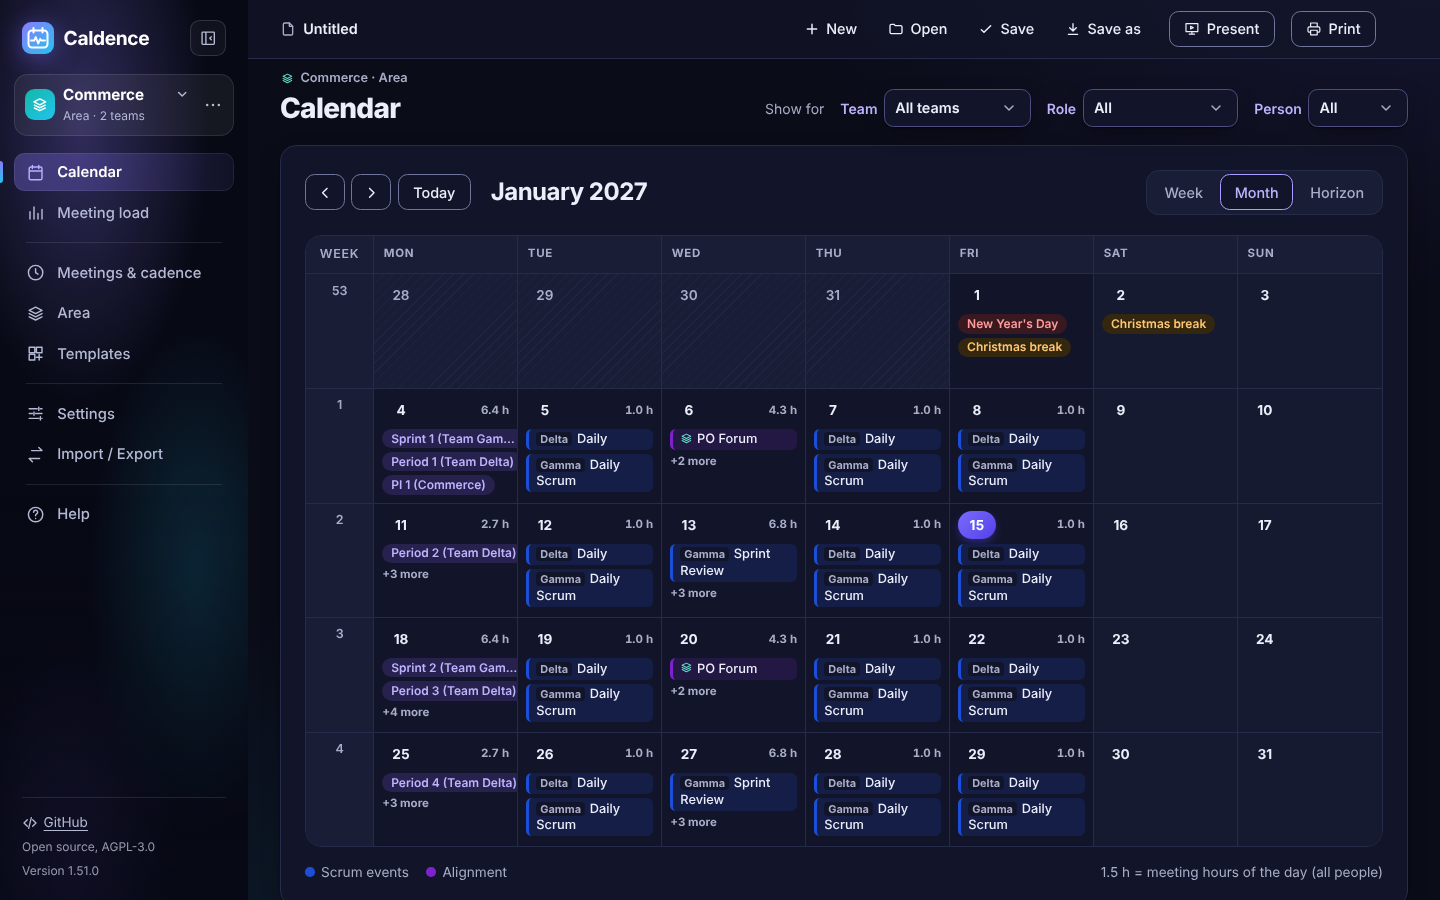
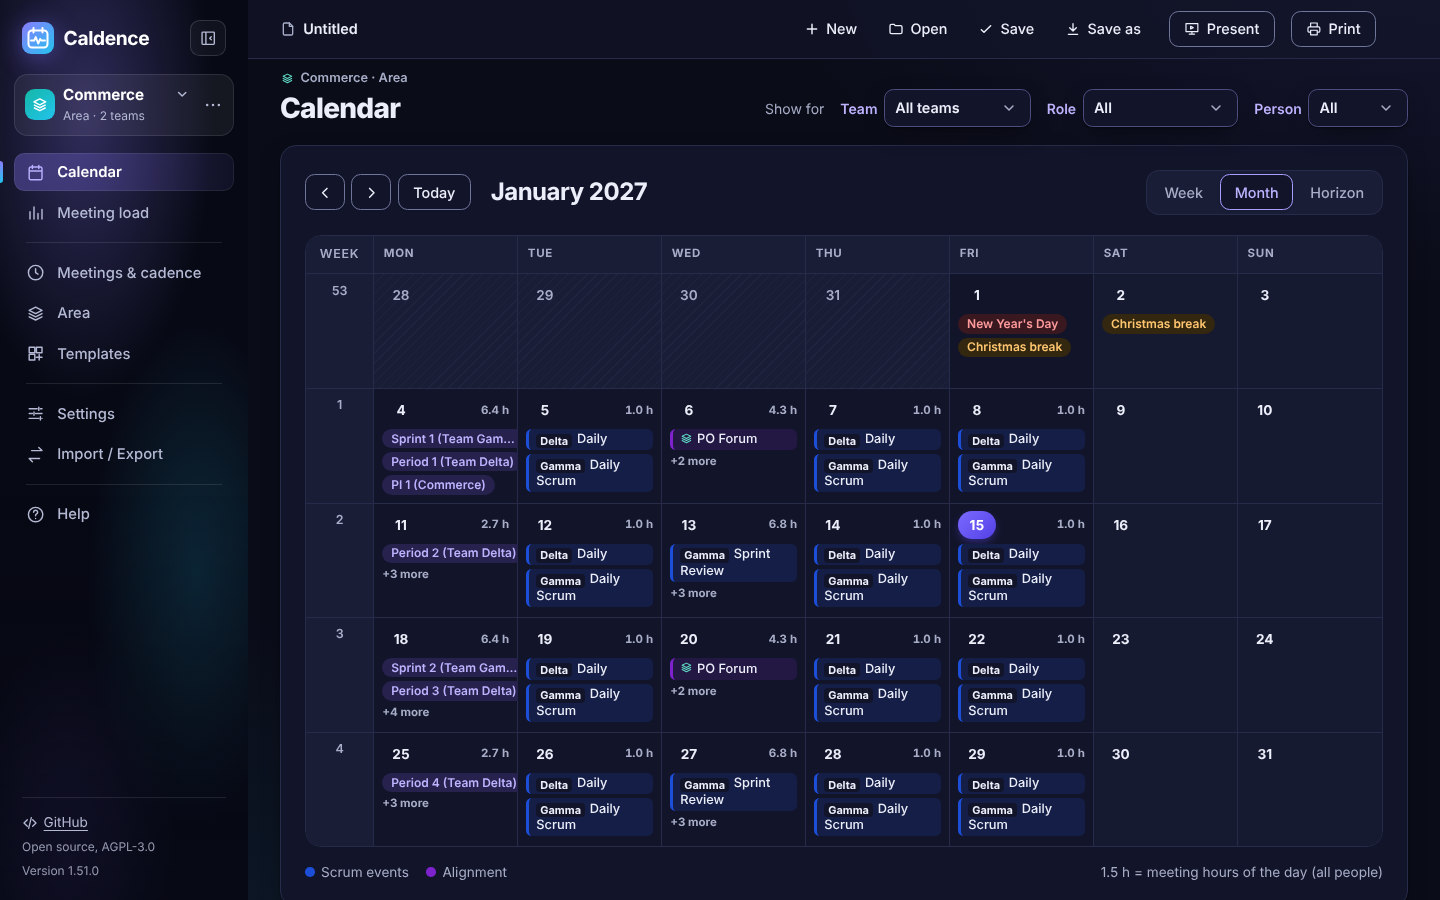
Month view: measure capped team tags, count meetings unfiltered, more tests (#504)

diff --git a/src/ui/views/CalendarView.svelte b/src/ui/views/CalendarView.svelte
@@ -21,6 +21,7 @@
     conflicts,
     dayLoad,
     filteredOccurrences,
+    meetingFrequency,
     rareFirst,
     scopeTeams,
     scopeUnits,
@@ -159,21 +160,12 @@
   const severalTeams = $derived($workspace.teams.length > 1);
 
   /** How often each meeting takes place in the horizon, by `teamId/eventId`: rarer ones lead a day. */
-  const frequency = $derived.by(() => {
-    const map: Record<string, number> = {};
-    for (const list of Object.values(byDate))
-      for (const o of list)
-        map[`${o.teamId}/${o.eventId}`] = (map[`${o.teamId}/${o.eventId}`] ?? 0) + 1;
-    return map;
-  });
+  const frequency = $derived(meetingFrequency($workspace, $index));
   /** A short tag per team when the scope covers several teams (area, organisation), by team id. */
   const tagOf = $derived.by(() => {
     const teams = scopeTeams($workspace, $filter);
-    const map: Record<string, string> = {};
-    if (teams.length < 2) return map;
-    const tags = teamTags(teams.map((x) => x.name));
-    for (const x of teams) map[x.id] = tags[x.name] ?? x.name;
-    return map;
+    if (teams.length < 2) return {} as Record<string, string>;
+    return teamTags(teams);
   });
 
   /** Team or area, meeting and category of every meeting, by `teamId/eventId`. */
@@ -531,6 +523,25 @@
     dayWidth = td.getBoundingClientRect().width - r - 1;
   });
   let ctx: CanvasRenderingContext2D | null = null;
+  /** The team tag's box, as in the styles (rem): font size, side padding, gap after, widest. */
+  const TAG_FONT = 0.68;
+  const TAG_PAD = 0.25;
+  const TAG_GAP = 0.3;
+  const TAG_MAX = 4.5;
+  /** Widths of the team tags in px, measured once per tag and font. */
+  let tagWidths: Record<string, number> = {};
+  let tagFont = '';
+  function tagWidth(tag: string): number {
+    const font = chipFont.replace(/^550 [\d.]+px/, `700 ${TAG_FONT * r}px`);
+    if (font !== tagFont) [tagWidths, tagFont] = [{}, font];
+    let width = tagWidths[tag];
+    if (width === undefined) {
+      ctx!.font = font;
+      width = Math.min(ctx!.measureText(tag).width + 2 * TAG_PAD * r, TAG_MAX * r);
+      tagWidths[tag] = width;
+    }
+    return width;
+  }
   /** Whether a meeting name needs a second line in its chip (it wraps to two, then ends in "…"). */
   function wraps(chip: ReturnType<typeof cell>['chips'][number]): boolean {
     if (dayWidth === 0) return false;
@@ -540,8 +551,8 @@
     // never matches, because table cells cannot be size containers.
     let text = dayWidth - 0.9 * r - 3 - 1;
     if (chip.area) text -= 0.8 * r + 0.25 * r;
+    if (chip.team) text -= tagWidth(chip.team) + TAG_GAP * r;
     ctx.font = chipFont;
-    if (chip.team) text -= ctx.measureText(chip.team).width * 0.85 + 0.6 * r;
     return ctx.measureText(chip.name).width > text;
   }
   /**
@@ -560,11 +571,16 @@
     const tags = tagCount(c);
     // A roomy row has the default height (see td in the styles).
     const room = (rowPx ?? 8.4 * r + 1) - 1 - (2.75 + 1.45 * tags) * r;
-    const heights = c.chips.map((chip) => (wraps(chip) ? 2.65 : 1.6) * r);
-    const used = (n: number) => heights.slice(0, n).reduce((a, b) => a + b, 0);
-    let n = heights.length;
-    while (n > 0 && used(n) + (all > n ? 1.2 * r : 0) > room) n--;
-    return { shown: n, more: all > n && used(n) + 1.2 * r <= room };
+    // Running heights, measured only until the room is full.
+    const used = [0];
+    for (const chip of c.chips) {
+      const next = used[used.length - 1]! + (wraps(chip) ? 2.65 : 1.6) * r;
+      if (next > room) break;
+      used.push(next);
+    }
+    let n = used.length - 1;
+    while (n > 0 && n < all && used[n]! + 1.2 * r > room) n--;
+    return { shown: n, more: all > n && used[n]! + 1.2 * r <= room };
   }
 
   /** A click outside the details and the grid closes them, as with any popover. */
@@ -1080,14 +1096,22 @@
     color: var(--area);
     margin-right: 0.25rem;
   }
+  /* Sizes as in tagWidth (TAG_*): 0.68rem, padding 0.25rem, gap 0.3rem, at most 4.5rem. */
   .chip .team {
+    display: inline-block;
+    box-sizing: border-box;
+    max-width: 4.5rem;
     margin-right: 0.3rem;
     padding: 0 0.25rem;
+    overflow: hidden;
+    vertical-align: bottom;
     border-radius: 0.25rem;
     background: var(--surface);
-    color: var(--text-muted);
-    font-size: 0.85em;
+    color: var(--text);
+    font-size: 0.68rem;
     font-weight: 700;
+    text-overflow: ellipsis;
+    white-space: nowrap;
   }
   .chip .t {
     display: none;

diff --git a/tests/unit/month-order.test.ts b/tests/unit/month-order.test.ts
@@ -1,5 +1,7 @@
 import { describe, expect, it } from 'vitest';
-import { rareFirst, teamTags } from '../../src/core/views';
+import { readFileSync } from 'node:fs';
+import type { Workspace } from '../../src/core/model';
+import { meetingFrequency, rareFirst, teamTags, workspaceIndex } from '../../src/core/views';
 
 describe('rareFirst (#504)', () => {
   it('puts rarer meetings first, then longer ones, dailies last', () => {
@@ -19,14 +21,63 @@ describe('rareFirst (#504)', () => {
   });
 });
 
+describe('rareFirst tie-breaks (#504)', () => {
+  const m = (teamId: string, eventId: string, start: string, duration: number) => ({
+    teamId,
+    eventId,
+    start,
+    duration,
+  });
+  it('same count: longer first, then earlier, then team id', () => {
+    const count = { 'a/x': 5, 'a/y': 5, 'b/y': 5, 'a/z': 5 };
+    const day = [
+      m('b', 'y', '10:00', 30),
+      m('a', 'y', '10:00', 30),
+      m('a', 'z', '09:00', 30),
+      m('a', 'x', '11:00', 90),
+    ];
+    expect(rareFirst(day, count).map((o) => `${o.teamId}/${o.eventId}`)).toEqual([
+      'a/x',
+      'a/z',
+      'a/y',
+      'b/y',
+    ]);
+  });
+  it('an unknown meeting counts as the rarest', () => {
+    expect(
+      rareFirst([m('a', 'd', '09:00', 15), m('a', 'new', '12:00', 15)], { 'a/d': 9 })[0]!.eventId,
+    ).toBe('new');
+  });
+});
+
 describe('teamTags (#504)', () => {
-  it('drops the words all teams share', () => {
-    expect(teamTags(['Team Alpha', 'Team Beta'])).toEqual({
-      'Team Alpha': 'Alpha',
-      'Team Beta': 'Beta',
-    });
+  it('drops the words all teams share, keyed by team id', () => {
+    expect(
+      teamTags([
+        { id: 'a', name: 'Team Alpha' },
+        { id: 'b', name: 'Team Beta' },
+      ]),
+    ).toEqual({ a: 'Alpha', b: 'Beta' });
   });
   it('keeps a name that would be empty', () => {
-    expect(teamTags(['Team', 'Team Gamma'])).toEqual({ Team: 'Team', 'Team Gamma': 'Gamma' });
+    expect(
+      teamTags([
+        { id: 't', name: 'Team' },
+        { id: 'g', name: 'Team Gamma' },
+      ]),
+    ).toEqual({ t: 'Team', g: 'Gamma' });
+  });
+});
+
+describe('meetingFrequency (#504)', () => {
+  it('counts every occurrence in the horizon, whatever the filter', () => {
+    const ws = JSON.parse(
+      readFileSync('src/data/examples/example.caldence.json', 'utf8'),
+    ) as Workspace;
+    const count = meetingFrequency(ws, workspaceIndex(ws));
+    const alpha = ws.teams[0]!;
+    const daily = alpha.events.find((e) => e.name === 'Weekly Sync')!;
+    const planning = alpha.events.find((e) => e.name === 'Sprint Planning')!;
+    expect(count[`${alpha.id}/${daily.id}`]!).toBeGreaterThan(count[`${alpha.id}/${planning.id}`]!);
   });
 });

diff --git a/tests/e2e/area-calendar.spec.ts b/tests/e2e/area-calendar.spec.ts
@@ -102,3 +102,34 @@ test('in area scope the month chips carry a short team tag (#504)', async ({ pag
   await expect(grid.locator('.chip', { hasText: 'Review B' }).first()).toBeVisible();
   await expect(grid.locator('.chip .team')).toHaveCount(0);
 });
+
+test('tagged chips fit their day; a person in two teams sees the tags (#504)', async ({ page }) => {
+  await page.setViewportSize({ width: 1440, height: 900 });
+  const ws = areaWorkspace();
+  const b = ws.teams[1];
+  b.name = 'Team Platform Engineering Excellence';
+  b.events[0].name = 'Review of the platform roadmap and the quarterly objectives';
+  b.events[0].rule.weekday = 4;
+  b.members.push({ personId: 'p1', roleId: 'r1' });
+  await page.goto('/');
+  await openWorkspaceFile(page, ws);
+  await pickUnit(page, 'Unit');
+  await showView(page, 'Calendar');
+  const grid = page.locator('table:has(td .chip)');
+  const tag = grid.locator('.chip .team', { hasText: 'Platform' }).first();
+  await expect(tag).toBeVisible();
+  // The long tag is cut at its maximum width.
+  expect((await tag.boundingBox())!.width).toBeLessThanOrEqual(4.5 * 16 + 1);
+  // Chips and "+n more" never overflow a day.
+  const overflowing = await grid
+    .locator('td .visual')
+    .evaluateAll((els) => els.filter((el) => el.scrollHeight > el.clientHeight + 1).length);
+  expect(overflowing).toBe(0);
+
+  // A person in both teams: their chips are tagged too.
+  await page
+    .getByRole('region', { name: 'Show for' })
+    .getByLabel('Person')
+    .selectOption({ label: 'Alex' });
+  await expect(grid.locator('.chip .team', { hasText: 'A' }).first()).toBeVisible();
+});

diff --git a/src/core/views.ts b/src/core/views.ts
@@ -656,13 +656,24 @@ export function rareFirst<
   );
 }
 
-/** Short team tags: each name without the words all names share ("Team Alpha" → "Alpha"). */
-export function teamTags(names: readonly string[]): Record<string, string> {
-  const words = names.map((name) => name.split(/\s+/).filter(Boolean));
+/** Short team tags by team id: each name without the words all names share ("Team Alpha" → "Alpha"). */
+export function teamTags(teams: readonly { id: string; name: string }[]): Record<string, string> {
+  const words = teams.map((t) => t.name.split(/\s+/).filter(Boolean));
   const shared = new Set(words[0]?.filter((w) => words.every((ws) => ws.includes(w))));
   const tags: Record<string, string> = {};
-  names.forEach((name, i) => {
-    tags[name] = words[i]!.filter((w) => !shared.has(w)).join(' ') || name;
+  teams.forEach((t, i) => {
+    tags[t.id] = words[i]!.filter((w) => !shared.has(w)).join(' ') || t.name;
   });
   return tags;
+}
+
+/**
+ * How often each meeting takes place in the horizon, by `teamId/eventId`, whatever the filter:
+ * a role or person filter does not change the order of a day (#504).
+ */
+export function meetingFrequency(ws: Workspace, index: HolidayIndex): Record<string, number> {
+  const count: Record<string, number> = {};
+  for (const o of filteredOccurrences(ws, index, {}))
+    count[`${o.teamId}/${o.eventId}`] = (count[`${o.teamId}/${o.eventId}`] ?? 0) + 1;
+  return count;
 }
